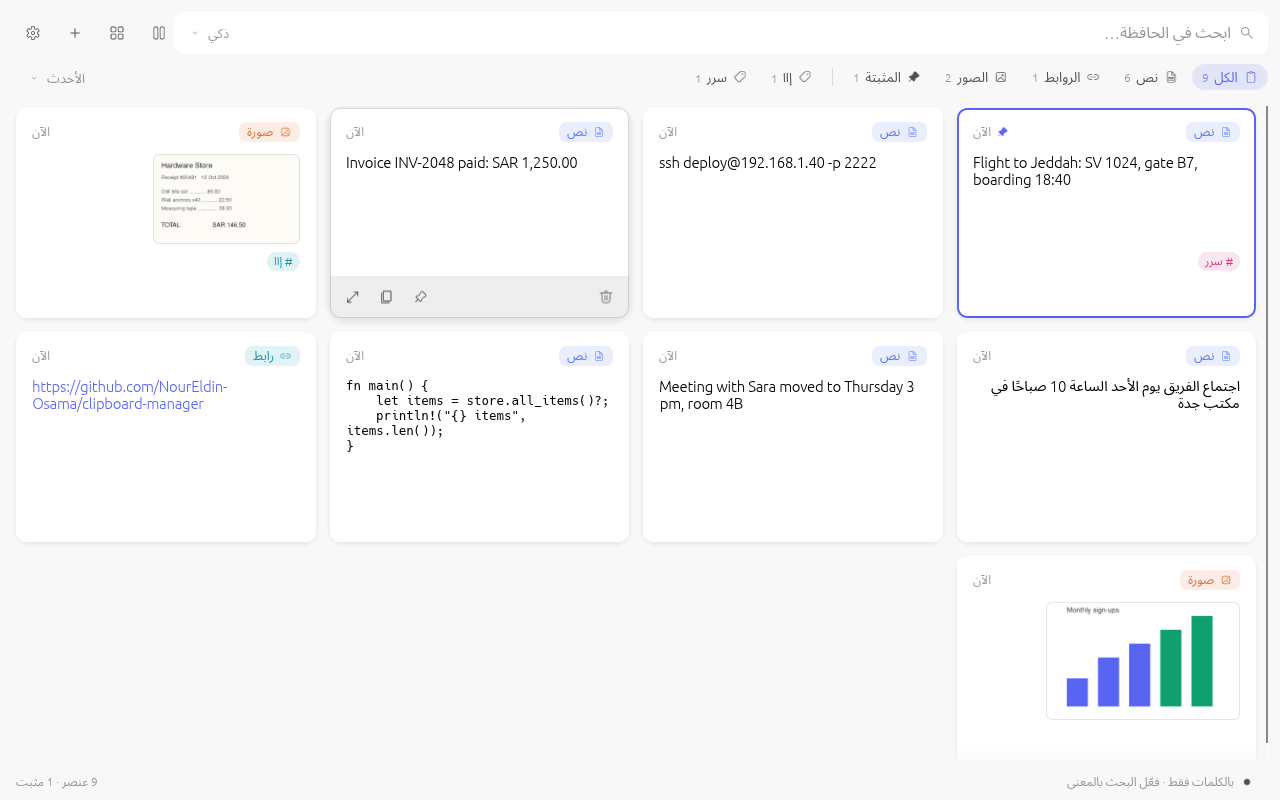
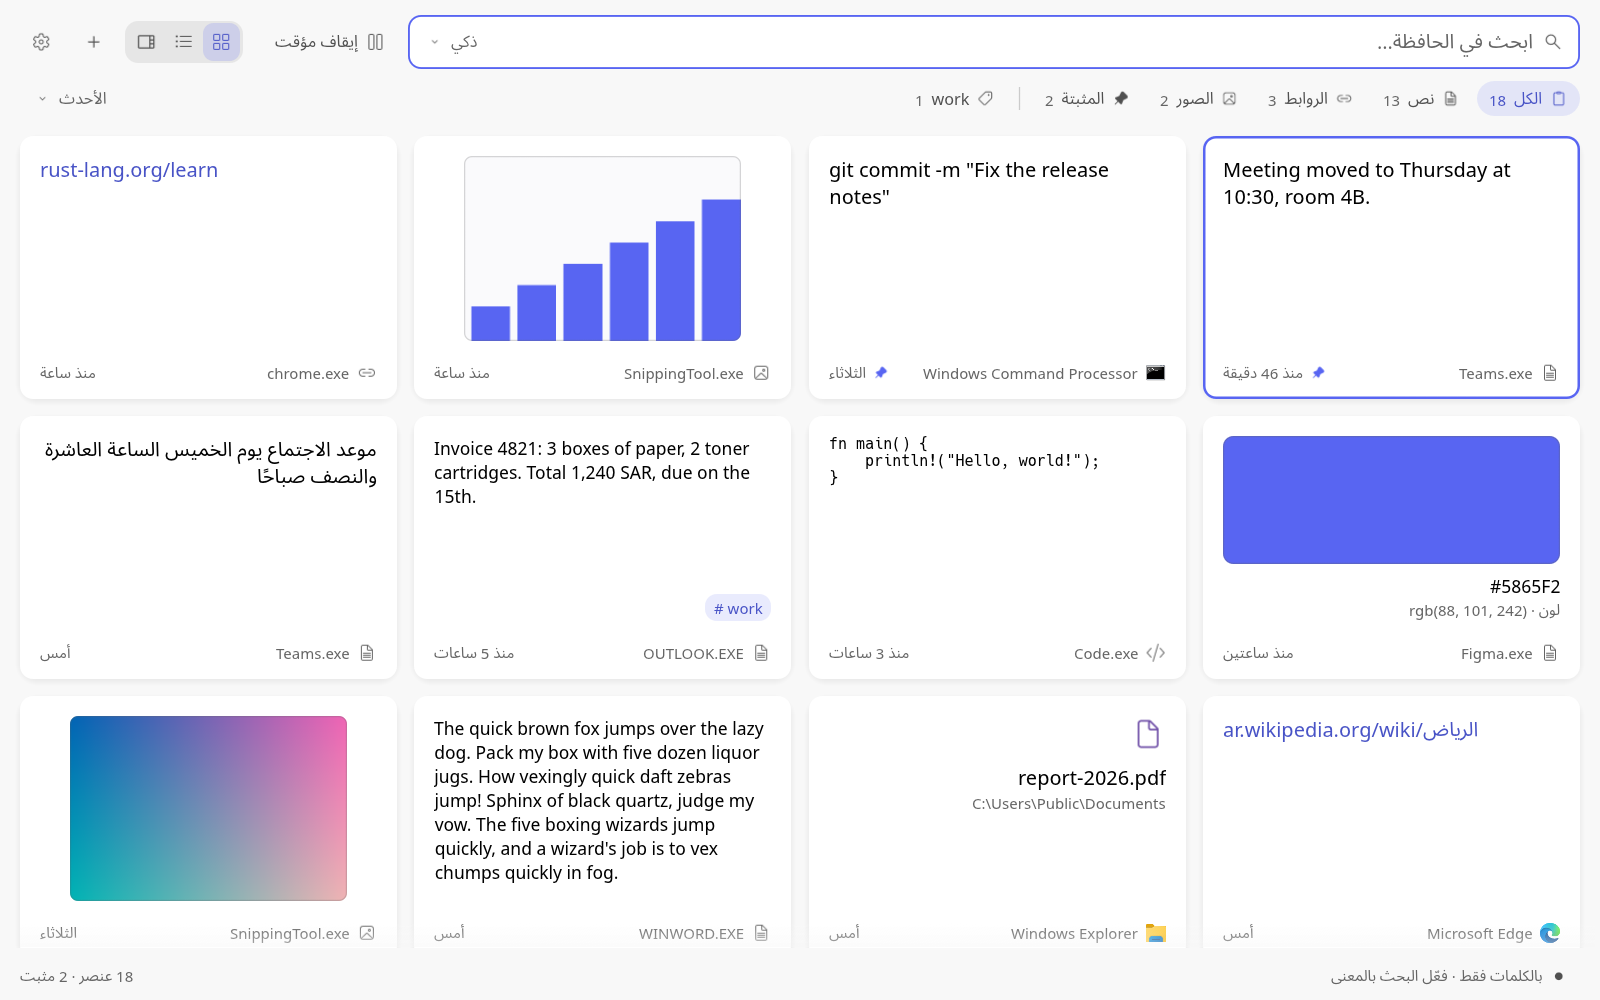
Take new screenshots for 0.6.0
From a test copy filled with made-up items, at 1600 by 1000 pixels (the
1280 by 800 window at 125% scaling), with recording on. The social
preview keeps the earlier layout with the new Grid screenshot.

diff --git a/docs/WORK-PLAN.md b/docs/WORK-PLAN.md
@@ -226,7 +226,7 @@ screenshots of the finished screens.
 
 ### Phase 15. Version 0.6.0
 - [x] 15.1 Remove the update from 0.4 settings, the old model folders' clean-up and the old vectors' deletion (D33)
-- [ ] 15.2 New screenshots from a test copy with made-up items
+- [x] 15.2 New screenshots from a test copy with made-up items
 - [x] 15.3 README, README_AR, the change log and version 0.6.0 (D48)
 
 ## Change log
